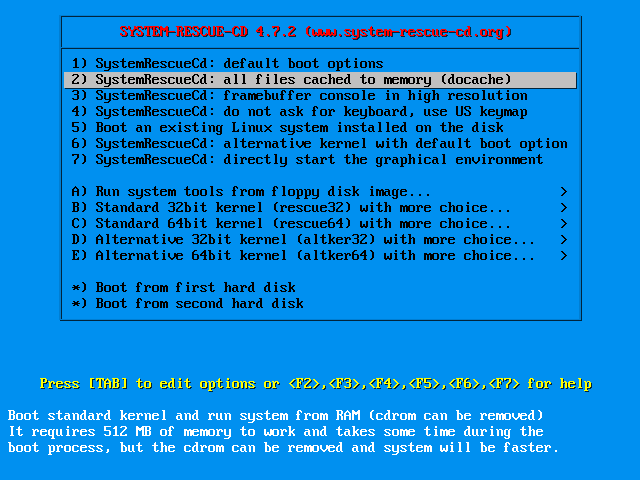
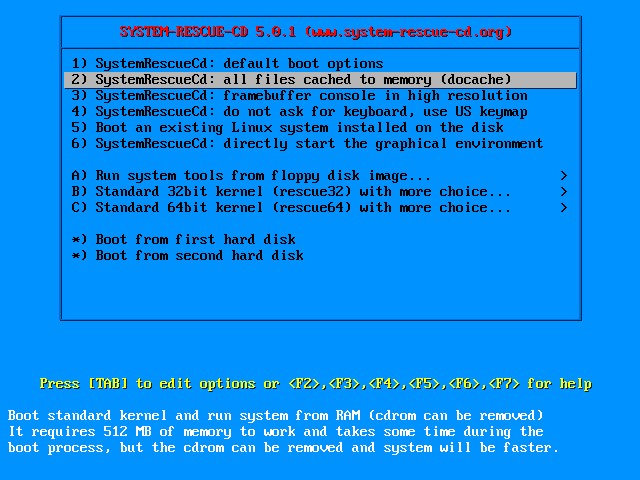
1

diff --git a/guides/backup.html b/guides/backup.html
@@ -111,7 +111,7 @@
 
 <h1>SystemrescueCD</h1>
 
-<p>SystemrescueCD er et værktøj der er baseret på Linux, og som giver adgang til at kunne udføre low level administration af computere, herunder adgang til FSArchiver. SystemrescueCD er et komplet styresystem der downloades i en ISO fil der kan brændes ud på en CDROM eller USB Disk. Det bliver ofte opdateret, så sørg for at have den nyeste version. Her anvendes version 4.7.2</p>
+<p>SystemrescueCD er et værktøj der er baseret på Linux, og som giver adgang til at kunne udføre low level administration af computere, herunder adgang til FSArchiver. SystemrescueCD er et komplet styresystem der downloades i en ISO fil der kan brændes ud på en CDROM eller USB Disk. Det bliver ofte opdateret, så sørg for at have den nyeste version. Her anvendes version 5.0.1.</p>
 
 <p>Fordelen ved at anvende SystemrescueCD er:</p>
 
@@ -193,7 +193,7 @@ passwd: password changed.
 <pre class="black">
 <span class="green">root@sysresccd</span> <span class="blue">/root</span> % ifconfig
 enp0s3: flags=4163<UP,BROADCAST,RUNNING,MULTICAST>  mtu 1500
-        inet 192.168.0.63  netmask 255.255.255.0  broadcast 192.168.0.255 <span class="red">&lt;-- netværksopl.</span>
+        inet 192.168.0.79  netmask 255.255.255.0  broadcast 192.168.0.255 <span class="red">&lt;-- netværksopl.</span>
         inet6 fe80::a00:27ff:fe74:1ffb  prefixlen 64  scopeid 0x20<link>
         ether 08:00:27:74:1f:fb  txqueuelen 1000  (Ethernet)
         RX packets 290  bytes 39943 (39.0 KiB)
@@ -213,9 +213,9 @@ lo: flags=73<UP,LOOPBACK,RUNNING>  mtu 65536
 
 <p>Læg både mærke til navnet på netværkskortet (her: enp0s3) og IP-adressen.</p>
 
-<p>Hvis man ønsker at ændre netværksopsætningen kan <span class="inl_cmd">ifconfig</span> også anvendes f.eks:</p>
+<p>Hvis man ønsker at ændre netværksopsætningen anvender man også <span class="inl_cmd">ifconfig</span>:</p>
 
-<code class="cmd">ifconfig enp0s3 192.168.0.15 netmask 255.255.255.0</code>
+<code class="cmd">ifconfig enp0s3 192.168.0.15/24</code>
 
 <pre class="black">
 <span class="green">root@sysresccd</span> <span class="blue">/root</span> % ifconfig
@@ -234,11 +234,11 @@ enp0s3: flags=4163<UP,BROADCAST,RUNNING,MULTICAST>  mtu 1500
 <code class="cmd">ssh root@192.168.0.63</code>
 
 <pre class="ubuntu_terminal">
-<span class="green1">thoj@thoj-VirtualBox</span>:<span class="blue1">~</span>$ ssh root@192.168.0.63
-The authenticity of host '192.168.0.63 (192.168.0.63)' can't be established.
-ED25519 key fingerprint is 36:23:66:4e:92:bc:fa:57:c3:f5:71:86:79:de:b8:ad.
+<span class="green1">thoj@thoj-VirtualBox</span>:<span class="blue1">~</span>$ ssh root@192.168.0.15
+The authenticity of host '192.168.0.15 (192.168.0.15)' can't be established.
+ED25519 key fingerprint is SHA256:Bgfi0aXlya0tOiD4zLmBDzUBhRKXxz7KF/wjkdIVDGE.
 Are you sure you want to continue connecting (yes/no)? yes
-Warning: Permanently added '192.168.0.63' (ED25519) to the list of known hosts.
+Warning: Permanently added '192.168.0.15' (ED25519) to the list of known hosts.
 Password: 
 <span class="green">root@sysresccd</span> <span class="blue">/root</span> % 
 </pre>
@@ -247,78 +247,65 @@ Password:
 
 <p>For at få et overblik over computerens drev og partitioner anvendes:</p>
 
-<code class="cmd">lsblk -o name,fstype,size,type,mountpoint</code>
+<code class="cmd">lsblk -o name,fstype,size</code>
 
 <p>Ubuntu PC</p>
 
 <pre class="black">
-<span class="green">root@sysresccd</span> <span class="blue1">/root</span> % lsblk -o name,fstype,size,type,mountpoint
-NAME   FSTYPE     SIZE TYPE MOUNTPOINT
-sda               100G disk 
-├─sda1 ext4      46.6G part 
-├─sda2 swap       3.8G part 
-└─sda3 ext4      28.9G part 
-sdb               100G disk 
-└─sdb1 ext4       100G part 
-sr0    iso9660  459.9M rom  
-loop0  squashfs 338.5M loop /livemnt/squashfs
+<span class="green">root@sysresccd</span> <span class="blue1">/root</span> % lsblk -o name,fstype,size 
+NAME   FSTYPE     SIZE
+sdb               100G
+└─sdb1 ext4       100G
+sr0    iso9660  463.2M
+loop0  squashfs 390.8M
+sda               100G
+├─sda2              1K
+├─sda5 swap         8G
+└─sda1 ext4        92G
 </pre>
 
 <p>Windows PC</p>
 
 <pre class="black">
-<span class="green">root@sysresccd</span> <span class="blue1">/root</span> % lsblk -o name,fstype,size,type,mountpoint
-NAME   FSTYPE     SIZE TYPE MOUNTPOINT
-sda               100G disk 
-├─sda1 ntfs       100M part 
-└─sda2 ntfs      99.9G part 
-sdb               100G disk 
-└─sdb1 ntfs       100G part 
-sr0    iso9660  459.9M rom  
-loop0  squashfs 338.5M loop /livemnt/squashfs
+<span class="green">root@sysresccd</span> <span class="blue1">/root</span> % lsblk -o name,fstype,size
+NAME   FSTYPE     SIZE
+sdb               100G
+└─sdb1 ntfs       100G
+sr0    iso9660  463.2M
+loop0  squashfs 390.8M
+sda               100G
+├─sda2 ntfs      99.5G
+└─sda1 ntfs       500M
 </pre>
 
-<h1>Forberedelse af Backup</h1>
+<h1>Forberedelse af backup - Ubuntu</h1>
 
 <p>Man kan med fordel rense sin maskine for overflødige filer. Det kan spare tid/plads især på Windows (op til flere GB). Der er skrevet <span class="inl_cmd">(opt)</span> ud for nogle af punkterne. Det betyder at der er nogle ting jeg ville gøre/fjerne. Især på windows bør det overvejes om man ønsker at opdatere først, fjerne gendannelsespunkterne ...</p>
 
 
-<h2>På Ubuntu</h2>
-
 <ul class="disc">
-	<li>Før computeren bootes med SystemrescueCD
-		<ul class="disc">
 			<li>Tøm "Hentede filer"</li>
 			<li>Opdater Ubuntu</li>
-		</ul>
-	
-	</li>
-	<li>Efter computeren er bootet med SystemrescueCD
-		<ul class="disc">
 			<li>Fjern unødenvendige systemfiler</li>
 			<li>Fjern ældre kerner (opt)</li>
-		</ul>	
-	</li>
-
 </ul>
 
 <p>Disse trin udføres før maskinen bootes op med SystemrescueCD</p>
 
-<span class="afsnit">Tøm Hentede filer og opdater Ubuntu (før)</span>
+<h2>Tøm Hentede filer og opdater Ubuntu (før)</h2>
+	<code class="cmd">rm ~/Hentede\ filer/*</code>
+	<code class="more_cmd">sudo apt-get update && sudo apt-get dist-upgrade -y</code>
 
-<code class="cmd">rm ~/Hentede\ filer/*</code>
+<h2>Fjern unødenvendige systemfiler</h2>
+	<code class="cmd">sudo apt-get autoremove -y</code>
+	<code class="cmd">sudo apt-get clean -y</code>
 
-<code class="more_cmd">sudo apt-get update && sudo apt-get dist-upgrade -y</code>
+<h2>Fjern ældre kerner</h2>
+	<code class="cmd">sudo apt-get purge $(dpkg -l linux-{image,headers}-"[0-9]*" | awk '/ii/{print $2}' | grep -ve $(uname -r | sed -r 's/-[a-z]+//') | sed ':a;N;$!ba;s/\n/ /g')</code>
 
-<span class="afsnit">Fjern unødenvendige systemfiler</span>
 
-<code class="cmd">sudo apt-get autoremove -y</code>
 
-<span class="afsnit">Fjern ældre kerner</span>
-
-<code class="cmd">sudo apt-get purge $(dpkg -l linux-{image,headers}-"[0-9]*" | awk '/ii/{print $2}' | grep -ve $(uname -r | sed -r 's/-[a-z]+//') | sed ':a;N;$!ba;s/\n/ /g')</code>
-
-<h2>På Windows</h2>
+<h1>Forberedelse af backup - Windows</h1>
 
 <p>På Windows er procedyren normal at man skal anvende GUI til at rense computeren. Det kan dog være en ret omfattende og tidskrævende proces. Derfor har jeg anvendt følgende metode, som kun tager en brøkdel af den tid det normalt tager</p>
 
@@ -326,7 +313,9 @@ loop0  squashfs 338.5M loop /livemnt/squashfs
 	<li>Før computeren bootes med SystemrescueCD
 		<ul class="disc">
 			<li>Tøm "Hentede filer"</li>
-			<li>Opdater Windows (opt)</li>
+			<li>Opdater Windows</li>
+			<li>Genstart og tjek at alle programmer virker efter opdateringen</li>
+			<li>Fjern gendannelsespunkter (restore points)</li>
 		</ul>
 	</li>
 	<li>Efter computeren er bootet med SystemrescueCD
@@ -339,97 +328,76 @@ loop0  squashfs 338.5M loop /livemnt/squashfs
 	</li>
 </ul>
 
-<p>Både swap- og hibernate filerne gendannes automatisk når windows startes igen, og de fylder ofte det samme som ens RAM-lager.</p>
+<h3>Tøm hentede filer og opdater Windows (før)</h3>
+
+<ul class="disc">
+	<li>Tøm "Hentede filer"</li>
+	<li>Opdater Windows</li>
+	<li>Genstart og tjek at alle programmer virker efter opdateringen</li>
+</ul>
+
+<h3>Fjern gendannelsespunker (opt)</h3>
+
+<p><b><span class="red">VIGTIGT: </span></b>Hvis du gør dette bliver dine gendannelsespunkter slettet. </p>
+
+<p>Åben Win+X menuen - <kbd>Win</kbd>+<kbd>x</kbd> og vælg <span class="inl_cmd">Kommandoprompt (administrator)</span>.</p>
+
+<figure id="">
+
+	<img class="p70" src="images/backup_winadm_prompt01.png" alt="" title="" />
+
+	<figcaption></figcaption>
+
+</figure>
+
+<p>Få først en oversigt med:</p>
+
+<code class="cmd">vssadmin list shadows</code>
+
+<p>Slet alle gendannelsespunkter med:</p>
+
+<code class="cmd">vssadmin delete shadows /all</code>
+
+<p><b>Læs mere: </b><a href="https://www.tenforums.com/tutorials/33593-delete-system-restore-points-windows-10-a.html" target="_blank">https://www.tenforums.com/tutorials/33593-delete-system-restore-points-windows-10-a.html</a></p>
+
+<p>Boot herefter Windowssystemet med SystemrescueCD.</p>
 
 
-<span class="afsnit">Tøm hentede filer og opdater Windows (før)</span>
+<h2>Med systemrescueCD</h2>
 
-<p>Tøm hentede filer ved at navigere ind i mappen med stifinder og opdater windows (opt)</p>
-
-<span class="afsnit">Monter systemdrevet</span>
-
-<p>Systemdrevet vil som standard være den anden partitioner på 1. disk. Vi monterer det i mappen <span class="inl_cmd">/mnt/windows</span>, som er oprettet som standard når SystemrescueCD starter op.</p>
+<h3>Monter systemdrevet</h3>
 
 <code class="cmd">ntfs-3g /dev/sda2 /mnt/windows</code>
 
-<span class="afsnit">Fjern swap- og hibernate filerne</span>
-
-<p>Vi vælger ikke at navigere ind i mapperne først, men angiver den fulde sti</p>
+<h3>Fjern swap- og hibernate filerne</h3>
 
 <code class="cmd">rm /mnt/windows/pagefile.sys</code>
 <code class="more_cmd">rm /mnt/windows/hiberfil.sys</code>
 
-<span class="afsnit">Fjern opdateringsfilerne</span>
+<p>Både swap- og hibernate filerne gendannes automatisk når windows startes igen, og de fylder ofte det samme som ens RAM-lager.</p>
+
+<h3>Fjern opdateringsfilerne</h3>
 
 <p>Opdateringsfilerne bliver ikke anvendt til noget efter de har været brugt til at opdatere med. Det kan dreje sig om flere GB.</p>
 
 <code class="cmd">rm -rf /mnt/windows/Windows/SoftwareDistribution/Download/*</code>
 
-<span class="afsnit">Fjern gendannelsespunker (opt)</span>
+<h1>Generelt om bakcup</h1>
 
-<p>Gendannelsespunkterne ligger i mappen <span class="inl_cmd">System Volume Information</span>. Jeg har altid valgt at slå denne funktion fra i Windows, da den ikke bare fylder meget på harddisken, men også gør at opdatering og installation af programmer tager ekstra tid. Anvender du denne funktion skal du ikke gennemføre følgende trin. Jeg har ikke oplevet at metoden har haft anden indvirkning på mine windowsinstallationer, end at de fylder mindre.</p>
+<p>Når vi endeligt skal til at lave backups af vores system er det ligegyldigt om det er et Linux eller et Windows system. Vi laver en bakcup af den harddiskpartition de ligger på, og derfor er det, det samme vi skal gøre på begge systemer.</p>
 
-<p>Hvis man kører <span class="inl_cmd">tree</span> kan man få nedestående output:</p>
+<ul class="disc">
+	<li>Mount drevet der skal tages backup af</li>
+	<li>Mount drevet hvor backup'en skal ligge</li>
+</ul>
 
-<pre class="black">
-<span class="green">root@sysresccd</span> <span class="blue1">/mnt/windows/System Volume Information</span> % tree --du
-<span class="blue1">.</span>
-├── [  576864256]  <span class="green1">{19ea1b42-1e26-11e5-84a9-0800277de8f7}{3808876b-c176-4e48-b7ae-04046e6cc752}</span>
-├── [  973078528]  <span class="green1">{1b51bb94-56c0-11e5-8b13-0800277de8f7}{3808876b-c176-4e48-b7ae-04046e6cc752}</span>
-├── [   54116352]  <span class="green1">{3317bf97-46fe-11e5-85d6-0800277de8f7}{3808876b-c176-4e48-b7ae-04046e6cc752}</span>
-├── [ 1638547456]  <span class="green1">{3317bf9b-46fe-11e5-85d6-0800277de8f7}{3808876b-c176-4e48-b7ae-04046e6cc752}</span>
-├── [      65536]  <span class="green1">{3808876b-c176-4e48-b7ae-04046e6cc752}</span>
-├── [  373424128]  <span class="green1">{43f51078-463e-11e5-a271-0800277de8f7}{3808876b-c176-4e48-b7ae-04046e6cc752}</span>
-├── [  585588736]  <span class="green1">{43f51108-463e-11e5-a271-0800277de8f7}{3808876b-c176-4e48-b7ae-04046e6cc752}</span>
-├── [  395657216]  <span class="green1">{9441f5f1-46fe-11e5-8943-0800277de8f7}{3808876b-c176-4e48-b7ae-04046e6cc752}</span>
-├── [  443006976]  <span class="green1">{d544f905-4c87-11e5-97e0-0800277de8f7}{3808876b-c176-4e48-b7ae-04046e6cc752}</span>
-├── [          0]  MountPointManagerRemoteDatabase
-├── [     645880]  <span class="blue1">SSP</span>
-│   ├── [      18248]  <span class="blue1">OnlineMetadataCache</span>
-│   │   ├── [       1744]  <span class="green1">{0867bb41-ba7a-4348-b8d2-d796ebeaff28}_OnDiskSnapshotProp</span>
-│   │   ├── [       1744]  <span class="green1">{0a219915-ebb9-4cf9-bbf2-fea541922d31}_OnDiskSnapshotProp</span>
-│   │   ├── [       1744]  <span class="green1">{10be7f13-29fc-4bc9-b420-ed5475a78a63}_OnDiskSnapshotProp</span>
-│   │   ├── [       1744]  <span class="green1">{33508c1e-b23e-417f-bad9-0bbf64034c34}_OnDiskSnapshotProp</span>
-│   │   ├── [       1848]  <span class="green1">{414dbcdf-d814-494c-a67b-c88c9d806f2b}_OnDiskSnapshotProp</span>
-│   │   ├── [       1744]  <span class="green1">{5730bf6e-7604-46d4-a03f-59df9b504ec2}_OnDiskSnapshotProp</span>
-│   │   ├── [       1744]  <span class="green1">{d32c3ad4-fe75-4da0-8af6-f170da1628d8}_OnDiskSnapshotProp</span>
-│   │   └── [       1840]  <span class="green1">{d7f36789-4847-4871-a876-9a8ac2a78e47}_OnDiskSnapshotProp</span>
-│   ├── [          0]  <span class="blue1">SppCbsHiveStore</span>
-│   └── [     623536]  <span class="blue1">SppGroupCache</span>
-│       ├── [      56656]  <span class="green1">{0867BB41-BA7A-4348-B8D2-D796EBEAFF28}_DriverPackageInfo</span>
-│       ├── [      30656]  <span class="green1">{0867BB41-BA7A-4348-B8D2-D796EBEAFF28}_WindowsUpdateInfo</span>
-│       ├── [      56656]  <span class="green1">{10BE7F13-29FC-4BC9-B420-ED5475A78A63}_DriverPackageInfo</span>
-│       ├── [      29624]  <span class="green1">{10BE7F13-29FC-4BC9-B420-ED5475A78A63}_WindowsUpdateInfo</span>
-│       ├── [      56656]  <span class="green1">{33508C1E-B23E-417F-BAD9-0BBF64034C34}_DriverPackageInfo</span>
-│       ├── [      30656]  <span class="green1">{33508C1E-B23E-417F-BAD9-0BBF64034C34}_WindowsUpdateInfo</span>
-│       ├── [      56656]  <span class="green1">{414DBCDF-D814-494C-A67B-C88C9D806F2B}_DriverPackageInfo</span>
-│       ├── [      32624]  <span class="green1">{414DBCDF-D814-494C-A67B-C88C9D806F2B}_WindowsUpdateInfo</span>
-│       ├── [      56656]  <span class="green1">{557AF84D-C3BA-4DD7-9EDC-F386D0BCEB79}_DriverPackageInfo</span>
-│       ├── [      29624]  <span class="green1">{557AF84D-C3BA-4DD7-9EDC-F386D0BCEB79}_WindowsUpdateInfo</span>
-│       ├── [      56872]  <span class="green1">{D32C3AD4-FE75-4DA0-8AF6-F170DA1628D8}_DriverPackageInfo</span>
-│       ├── [      32624]  <span class="green1">{D32C3AD4-FE75-4DA0-8AF6-F170DA1628D8}_WindowsUpdateInfo</span>
-│       ├── [      56760]  <span class="green1">{D7F36789-4847-4871-A876-9A8AC2A78E47}_DriverPackageInfo</span>
-│       └── [      32624]  <span class="green1">{D7F36789-4847-4871-A876-9A8AC2A78E47}_WindowsUpdateInfo</span>
-├── [     524288]  <span class="green1">Syscache.hve</span>
-├── [     128000]  <span class="green1">Syscache.hve.LOG1</span>
-├── [          0]  <span class="green1">Syscache.hve.LOG2</span>
-├── [      20480]  <span class="green1">tracking.log</span>
-└── [          0]  <span class="blue1">WindowsImageBackup</span>
-    └── [          0]  <span class="blue1">SPPMetadataCache</span>
+<p>For Linux partitioner:</p>
 
-  5041676024 bytes used in 6 directories, 36 files
-<span class="green">root@sysresccd</span> <span class="blue1">/mnt/windows/System Volume Information</span> % tree --du
-</pre>
+<code class="cmd">mount **drev** **monteringspunkt** </code>
 
-<p>Alle filer her der starter med <span class="inl_cmd">{</span> er backupfiler. Fjern dem med følgende kommandoer:</p>
+<p>For Windows partitioner</p>
 
-<code class="cmd">rm -rf /mnt/windows/System\ Volume\ Information/{*</code>
-	
-<code class="more_cmd">rm -rf /mnt/windows/System\ Volume\ Information\SPP/OnlineMetadataCache/{*</code>
-	
-<code class="more_cmd">rm -rf /mnt/windows/System\ Volume\ Information\SPP/SppGroupCache/{*</code>
-
-<p>En nyinstalleret og fuldt ud opdateret windows7 installation kan hurtigt tabe sig 10-20 GB af ovenstående.</p>
+<code class="cmd">ntfs-3g **drev** **monteringspunkt**</code>
 
 <h1>FSArchiever</h1>
 
